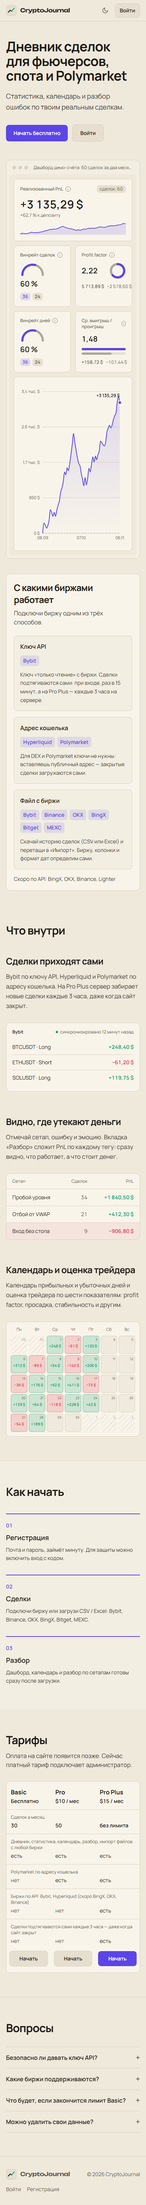
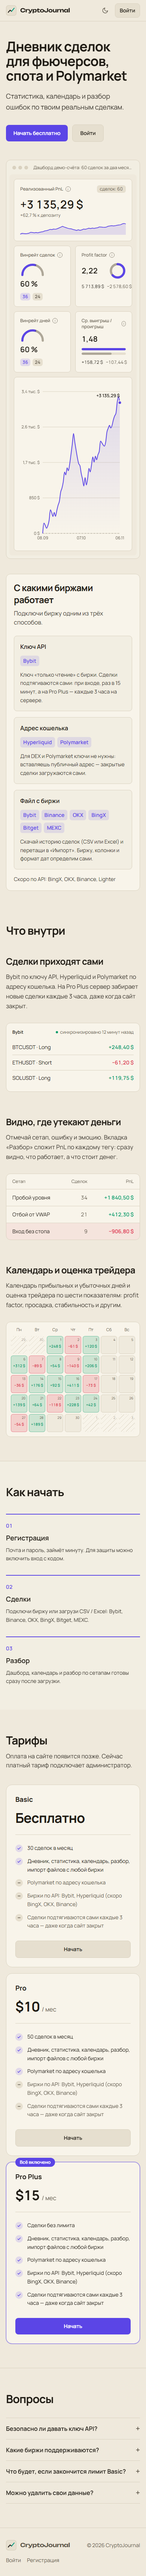
Главная: тарифы карточками и анимация при заходе на сайт
- тарифы на главной — три карточки (PlanCards): крупная цена, список с галочками, Pro Plus выделен и с плашкой «Всё включено»; страница /plans — по-прежнему таблица
- заход на сайт: шапка мягко опускается, слова заголовка проявляются по очереди из лёгкой размытости, затем подзаголовок, кнопки и превью дашборда с лёгким приближением
- prefers-reduced-motion — без анимации (как и раньше)
- скриншоты обновлены

Changed region(s): [[0.0308, 0.0, 0.9231, 0.9959], [0.9538, 0.8403, 0.9846, 0.9026]]

diff --git a/src/features/landing/LandingPage.tsx b/src/features/landing/LandingPage.tsx
@@ -2,16 +2,16 @@
  * Главная для тех, кто ещё не вошёл: что это, живой дашборд демо-счёта, возможности, шаги, тарифы, вопросы.
  * Превью — настоящие виджеты дашборда на выдуманных сделках (demo.ts), а не картинка.
  */
-import { lazy, Suspense, useMemo } from 'react'
+import { Fragment, lazy, Suspense, useMemo } from 'react'
 import { Link } from 'react-router'
 import { plural, useT } from '@/i18n'
 import { Logo } from '@/components/Logo'
 import { ThemeToggle } from '@/components/ThemeToggle'
 import { useAuth } from '@/features/auth/AuthProvider'
-import { PlansTable } from '@/features/plans/PlansPage'
 import { KpiRow, ScoreCard } from '@/features/dashboard/Widgets'
 import { formatPnl, pnlClass } from '@/lib/format'
 import { Reveal } from './Reveal'
+import { PlanCards } from './PlanCards'
 import { demoAccount } from './demo'
 
 const EquityChart = lazy(() => import('@/features/dashboard/charts').then((m) => ({ default: m.EquityChart })))
@@ -37,7 +37,7 @@ export function LandingPage() {
   return (
     <div className="min-h-dvh">
       {/* шапка */}
-      <header className="sticky top-0 z-20 border-b border-border bg-bg/85 backdrop-blur">
+      <header className="animate-drop sticky top-0 z-20 border-b border-border bg-bg/85 backdrop-blur">
         <div className={`${wrap} flex h-14 items-center justify-between gap-4`}>
           <Link to="/" aria-label={t.app.name}>
             <Logo />
@@ -80,13 +80,21 @@ export function LandingPage() {
         {/* первый экран */}
         <section className={`${wrap} pt-12 pb-10 sm:pt-20`}>
           <div className="max-w-3xl">
-            <Reveal>
-              <h1 className="text-4xl leading-[1.08] font-bold tracking-tight text-balance sm:text-5xl lg:text-6xl">{l.title}</h1>
-            </Reveal>
-            <Reveal delay={60}>
+            {/* заход на сайт: слова заголовка по очереди, затем подзаголовок, кнопки и превью */}
+            <h1 className="text-4xl leading-[1.08] font-bold tracking-tight text-balance sm:text-5xl lg:text-6xl" aria-label={l.title}>
+              {l.title.split(' ').map((w, i) => (
+                <Fragment key={i}>
+                  {i > 0 && ' '}
+                  <span aria-hidden className="animate-word inline-block" style={{ animationDelay: `${150 + i * 70}ms` }}>
+                    {w}
+                  </span>
+                </Fragment>
+              ))}
+            </h1>
+            <Reveal delay={550}>
               <p className="mt-5 max-w-xl text-lg leading-relaxed text-balance text-text/90 sm:text-xl">{l.subtitle}</p>
             </Reveal>
-            <Reveal delay={120} className="mt-8 flex flex-wrap items-center gap-3">
+            <Reveal delay={680} className="mt-8 flex flex-wrap items-center gap-3">
               <Link to="/register" className={`${btnPrimary} !px-5 !py-3`}>
                 {l.start}
               </Link>
@@ -97,7 +105,7 @@ export function LandingPage() {
           </div>
 
           {/* живое превью дашборда */}
-          <Reveal delay={180} className="mt-12 rounded-xl border border-border bg-surface/40 p-2 sm:p-3">
+          <Reveal delay={820} zoom className="mt-12 rounded-xl border border-border bg-surface/40 p-2 sm:p-3">
             <div className="flex items-center gap-1.5 px-2 pt-1 pb-2.5">
               <i className="size-2.5 rounded-full bg-border" />
               <i className="size-2.5 rounded-full bg-border" />
@@ -188,15 +196,15 @@ export function LandingPage() {
             <h2 className="text-3xl font-bold tracking-tight sm:text-4xl">{l.pricingTitle}</h2>
             <p className="mt-3 text-text/90">{l.pricingHint}</p>
           </Reveal>
-          <Reveal delay={90} className="mt-8">
-            <PlansTable
+          <div className="mt-10">
+            <PlanCards
               action={(plan) => (
-                <Link to="/register" className={`${plan.id === 'pro_plus' ? btnPrimary : btnSecondary} w-full !px-2`}>
+                <Link to="/register" className={`${plan.id === 'pro_plus' ? btnPrimary : btnSecondary} w-full !py-3`}>
                   {l.pick}
                 </Link>
               )}
             />
-          </Reveal>
+          </div>
         </section>
 
         {/* вопросы */}

diff --git a/src/features/landing/PlanCards.tsx b/src/features/landing/PlanCards.tsx
@@ -1,0 +1,76 @@
+/**
+ * Тарифы на главной — три карточки рядом (на телефоне друг под другом).
+ * Pro Plus выделен рамкой и плашкой «Всё включено». Страница /plans по-прежнему показывает таблицу (PlansTable).
+ */
+import type { ReactNode } from 'react'
+import { fmt, useT } from '@/i18n'
+import { PLANS, type PlanInfo } from '@/lib/plans'
+import { Reveal } from './Reveal'
+
+const CHECK = 'M4 10.5l3.5 3.5L16 5.5'
+const DASH = 'M5 10h10'
+
+function Mark({ on }: { on: boolean }) {
+  return (
+    <span
+      className={`mt-0.5 grid size-5 shrink-0 place-items-center rounded-full ${on ? 'bg-primary/15 text-primary' : 'bg-surface-2 text-muted'}`}
+      aria-hidden
+    >
+      <svg viewBox="0 0 20 20" className="size-3" fill="none" stroke="currentColor" strokeWidth={2.4} strokeLinecap="round" strokeLinejoin="round">
+        <path d={on ? CHECK : DASH} />
+      </svg>
+    </span>
+  )
+}
+
+export function PlanCards({ action }: { action: (plan: PlanInfo) => ReactNode }) {
+  const t = useT()
+  const p = t.plans
+  return (
+    <div className="grid gap-4 md:grid-cols-3 md:items-stretch">
+      {PLANS.map((plan, i) => {
+        const best = plan.id === 'pro_plus'
+        const items: [string, boolean][] = [
+          [plan.tradeLimit === null ? p.tradesUnlimitedLine : fmt(p.tradesLine, { n: plan.tradeLimit }), true],
+          [p.features.base, true],
+          [p.features.polymarket, plan.polymarket],
+          [p.features.exchanges, plan.exchanges],
+          [p.features.serverSync, plan.serverSync],
+        ]
+        return (
+          <Reveal key={plan.id} delay={i * 110} className="flex">
+            <div
+              className={`relative flex w-full flex-col rounded-2xl border bg-surface p-6 sm:p-7 ${
+                best ? 'border-primary/70 ring-1 ring-primary/30' : 'card-lift border-border'
+              }`}
+            >
+            {best && (
+              <span className="absolute -top-3 left-6 rounded-full bg-primary px-3 py-1 text-xs font-semibold text-on-primary">{p.best}</span>
+            )}
+            <h3 className="text-lg font-bold">{p.names[plan.id]}</h3>
+            <p className="mt-4 flex items-baseline gap-1.5">
+              {plan.price === 0 ? (
+                <span className="text-4xl font-bold tracking-tight">{p.free}</span>
+              ) : (
+                <>
+                  <span className="num text-4xl font-bold tracking-tight">${plan.price}</span>
+                  <span className="text-muted">{p.month}</span>
+                </>
+              )}
+            </p>
+            <ul className="mt-6 flex flex-1 flex-col gap-3 border-t border-border pt-6 text-sm leading-relaxed">
+              {items.map(([label, on]) => (
+                <li key={label} className={`flex gap-3 ${on ? '' : 'text-muted'}`}>
+                  <Mark on={on} />
+                  <span>{label}</span>
+                </li>
+              ))}
+            </ul>
+            <div className="mt-7">{action(plan)}</div>
+            </div>
+          </Reveal>
+        )
+      })}
+    </div>
+  )
+}

diff --git a/src/features/landing/Reveal.tsx b/src/features/landing/Reveal.tsx
@@ -6,7 +6,20 @@
 import { useEffect, useRef, useState, type CSSProperties, type ReactNode } from 'react'
 import { prefersReducedMotion } from '@/lib/motion'
 
-export function Reveal({ children, className = '', delay = 0, as: Tag = 'div' }: { children: ReactNode; className?: string; delay?: number; as?: 'div' | 'section' | 'li' | 'h2' | 'details' }) {
+/** zoom — ещё и лёгкое «приближение» 97 % → 100 % (большое превью дашборда на первом экране) */
+export function Reveal({
+  children,
+  className = '',
+  delay = 0,
+  zoom = false,
+  as: Tag = 'div',
+}: {
+  children: ReactNode
+  className?: string
+  delay?: number
+  zoom?: boolean
+  as?: 'div' | 'section' | 'li' | 'h2' | 'details'
+}) {
   const ref = useRef<HTMLElement | null>(null)
   const [shown, setShown] = useState(() => prefersReducedMotion() || typeof IntersectionObserver === 'undefined')
   useEffect(() => {
@@ -28,7 +41,7 @@ export function Reveal({ children, className = '', delay = 0, as: Tag = 'div' }:
       ref={(el: HTMLElement | null) => {
         ref.current = el
       }}
-      className={`transition-[opacity,translate] duration-[550ms] ease-[cubic-bezier(0.22,1,0.36,1)] ${shown ? 'translate-y-0 opacity-100' : 'translate-y-4 opacity-0'} ${className}`}
+      className={`transition-[opacity,translate,scale] ease-[cubic-bezier(0.22,1,0.36,1)] ${zoom ? 'duration-[900ms]' : 'duration-[550ms]'} ${shown ? 'translate-y-0 scale-100 opacity-100' : `translate-y-4 opacity-0 ${zoom ? 'scale-[0.97]' : ''}`} ${className}`}
       style={{ transitionDelay: `${delay}ms` } as CSSProperties}
     >
       {children}

diff --git a/src/styles/theme.css b/src/styles/theme.css
@@ -53,6 +53,18 @@
   /* Анимации */
   --animate-rise: rise 0.3s ease-out both;
   --animate-flash: flash 1.6s ease-out;
+  /* заход на главную: слова заголовка проявляются по очереди из лёгкой размытости, шапка опускается */
+  --animate-word: word 0.8s cubic-bezier(0.22, 1, 0.36, 1) both;
+  --animate-drop: drop 0.6s cubic-bezier(0.22, 1, 0.36, 1) both;
+
+  @keyframes word {
+    from { opacity: 0; transform: translateY(0.35em); filter: blur(8px); }
+    to { opacity: 1; transform: none; filter: none; }
+  }
+  @keyframes drop {
+    from { opacity: 0; transform: translateY(-10px); }
+    to { opacity: 1; transform: none; }
+  }
 
   @keyframes rise {
     from { opacity: 0.4; transform: translateY(3px); }

diff --git a/src/i18n/ru.ts b/src/i18n/ru.ts
@@ -307,6 +307,10 @@ export const ru = {
       serverSync: 'Сделки подтягиваются сами каждые 3 часа — даже когда сайт закрыт',
     },
     compare: 'Сравнить тарифы',
+    best: 'Всё включено',
+    month: '/ мес',
+    tradesLine: '{n} сделок в месяц',
+    tradesUnlimitedLine: 'Сделки без лимита',
     needPlan: 'Доступно на тарифе {plan}.',
   },
   admin: {
